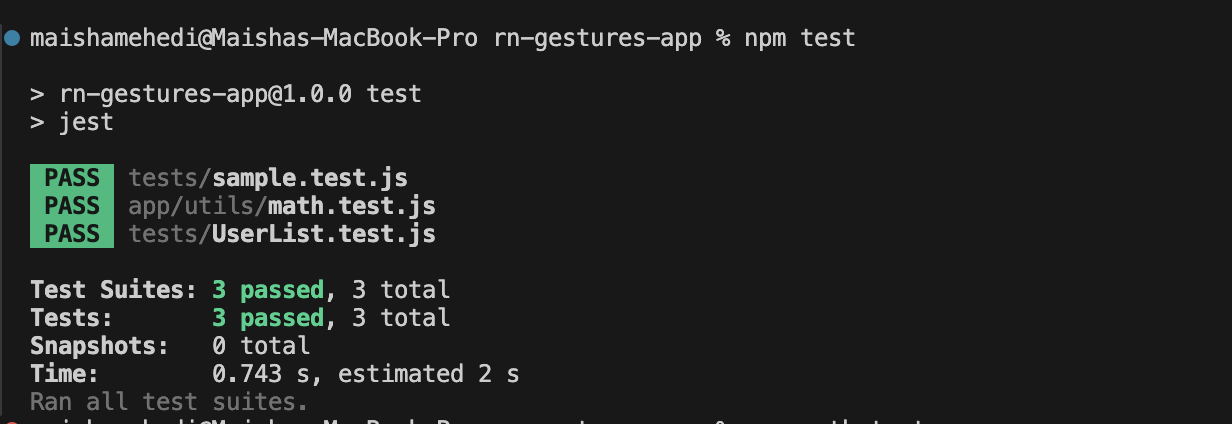
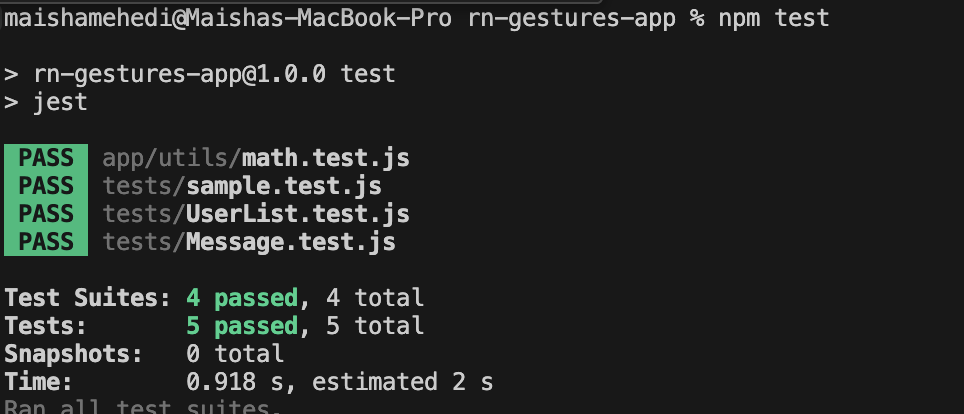
Closing issue 71
Mocking API Calls in Jest ( Closes #71)

diff --git a/rn-gestures-app/tests/UserList.test.js b/rn-gestures-app/tests/UserList.test.js
@@ -1,17 +1,18 @@
-import React from 'react';
-import { render, waitFor } from '@testing-library/react-native';
-import UserList from '../components/UserList';
+import React from "react";
+import { render, screen, waitFor } from "@testing-library/react-native";
+import UserList from "../components/UserList";
 
-global.fetch = jest.fn();
+// Mock fetch
+global.fetch = jest.fn(() =>
+  Promise.resolve({
+    json: () => Promise.resolve({ name: "Maisha" }),
+  })
+);
 
-test('fetches and displays data', async () => {
-  fetch.mockResolvedValueOnce({
-    json: async () => [{ name: 'Maisha' }]
-  });
-
-  const { getByText } = render(<UserList />);
+test("displays user after API call", async () => {
+  render(<UserList />);
 
   await waitFor(() => {
-    expect(getByText('Maisha')).toBeTruthy();
+    expect(screen.getByText("Maisha")).toBeTruthy();
   });
 });

diff --git a/rn-gestures-app/components/UserList.js b/rn-gestures-app/components/UserList.js
@@ -1,20 +1,18 @@
-import React, { useEffect, useState } from 'react';
-import { Text, View } from 'react-native';
+import React, { useEffect, useState } from "react";
+import { View, Text } from "react-native";
 
 export default function UserList() {
-  const [data, setData] = useState([]);
+  const [user, setUser] = useState(null);
 
   useEffect(() => {
-    fetch('https://example.com/users')
-      .then(res => res.json())
-      .then(json => setData(json));
+    fetch("https://example.com/user")
+      .then((res) => res.json())
+      .then((data) => setUser(data.name));
   }, []);
 
   return (
     <View>
-      {data.map((item, index) => (
-        <Text key={index}>{item.name}</Text>
-      ))}
+      <Text>{user ? user : "Loading..."}</Text>
     </View>
   );
 }

diff --git a/unit_tests.md b/unit_tests.md
@@ -71,3 +71,25 @@ React Testing Library focuses on how users interact with the UI. This makes test
 It was a bit confusing to understand how to simulate clicks and select elements. It took some time to learn how fireEvent works, but it became easier after trying it.
 
 ---------
+
+# Mocking API Calls in Jest (71)
+
+# Task 
+## Research how to mock API calls in Jest using jest.fn() and jest.mock().
+Jest allows mocking API calls using functions like jest.fn() and jest.mock(). This helps simulate API responses without making real network requests. It allows testing how components behave with different data.
+
+## Create Component (API Fetch) and Mock API in Test
+Created a component called "UserList" that fetches user data and displays it.
+Then Mocked the API call and tested if the component shows the correct data.
+And finally run the tet, to check if the test has passed.
+![Mock API Test Screenshot](images/test2.png)
+
+# Reflection 
+## Why is it important to mock API calls in tests?
+Mocking API calls allows testing without real network requests. It makes tests faster and more reliable, and avoids dependency on external services.
+
+## What are some common pitfalls when testing asynchronous code?
+It can be difficult to handle timing correctly. Sometimes tests fail if the data has not loaded yet. Using functions like waitFor helps fix this.
+
+---------
+
